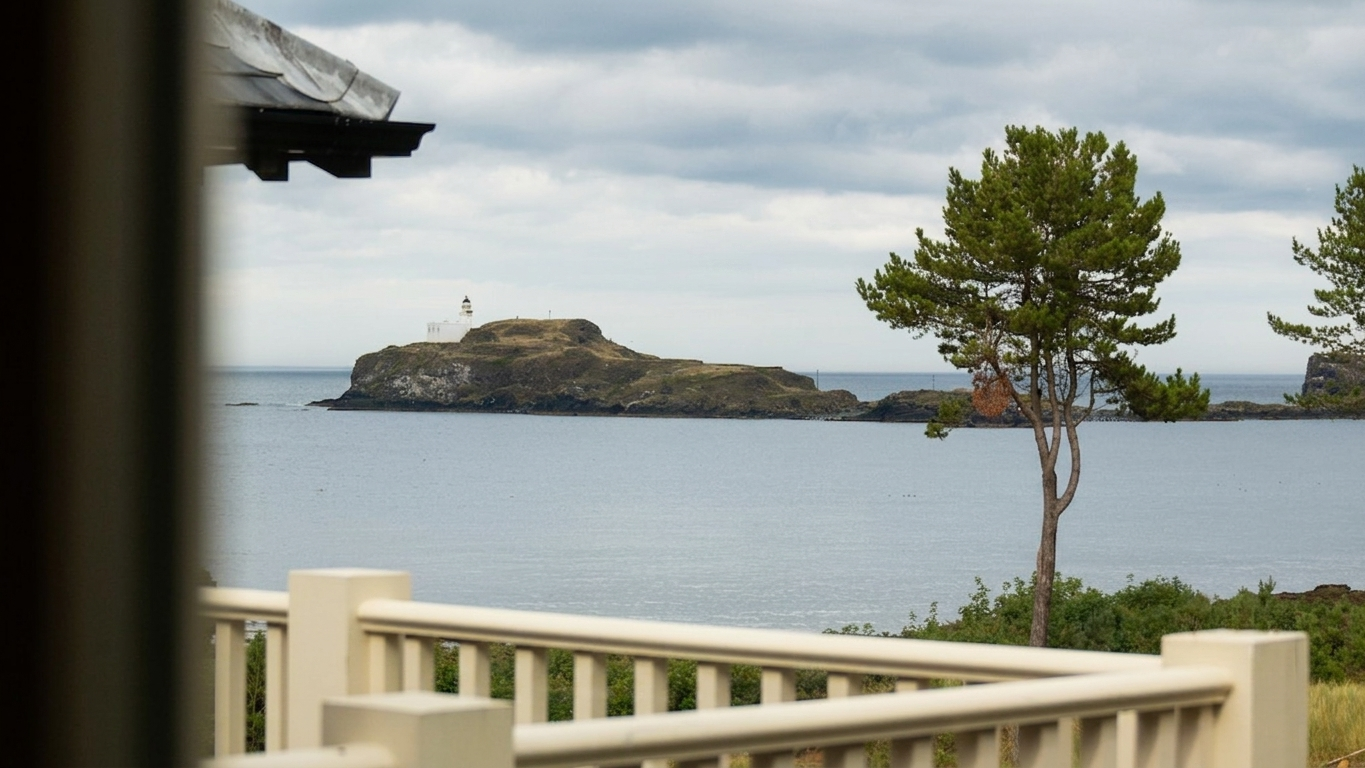
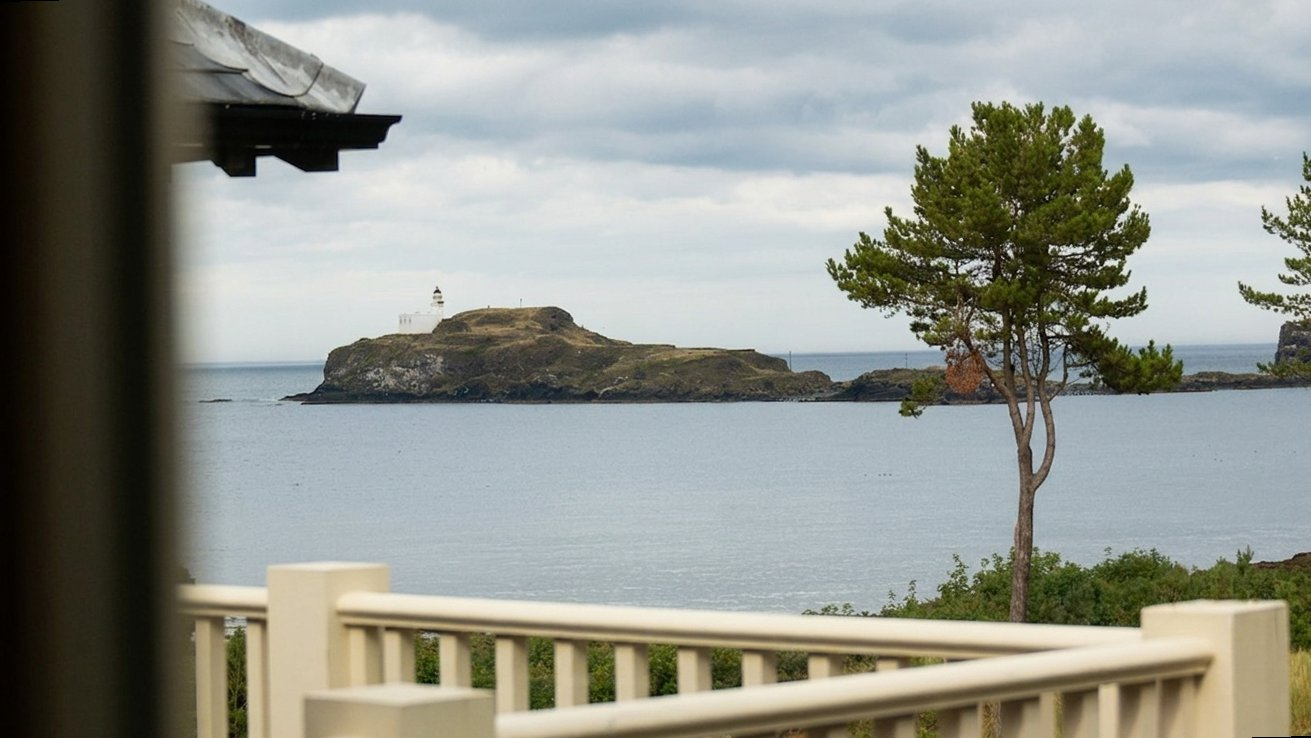
Level horizon in Archerfield harbour photo, adjust homepage crop position

diff --git a/public/css/style.css b/public/css/style.css
@@ -2497,10 +2497,10 @@ body.light .nav-hamburger span { background: #0a0a0a; }
   transform: scale(1.05);
 }
 .split-bg-films { background-position: center 30%; }
-.split-bg-showcases { background-position: center 50%; }
+.split-bg-showcases { background-position: 55% center; }
 @media (min-width: 901px) {
   .split-bg-films { background-position: center 70%; }
-  .split-bg-showcases { background-position: center 90%; }
+  .split-bg-showcases { background-position: 55% center; }
 }
 .split-overlay {
   position: absolute;
